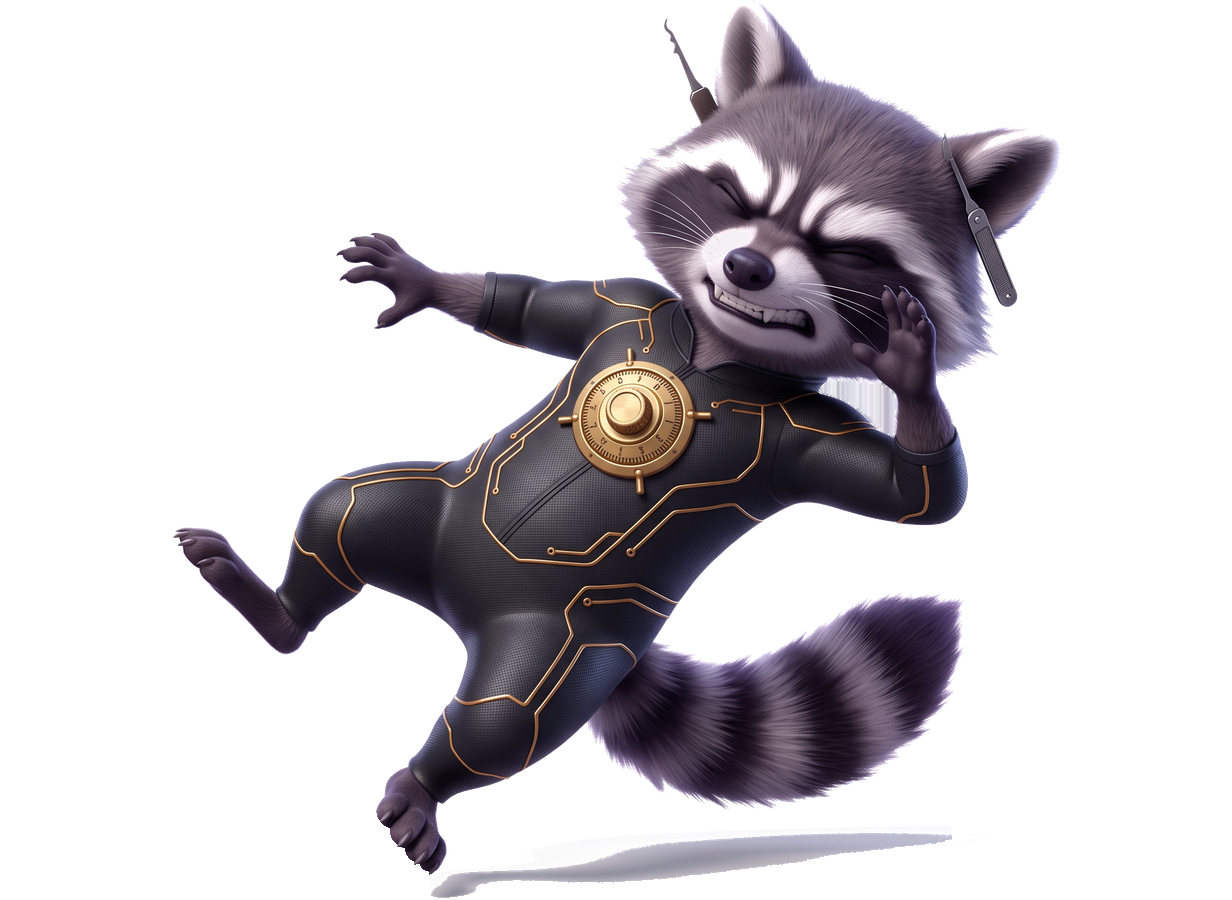
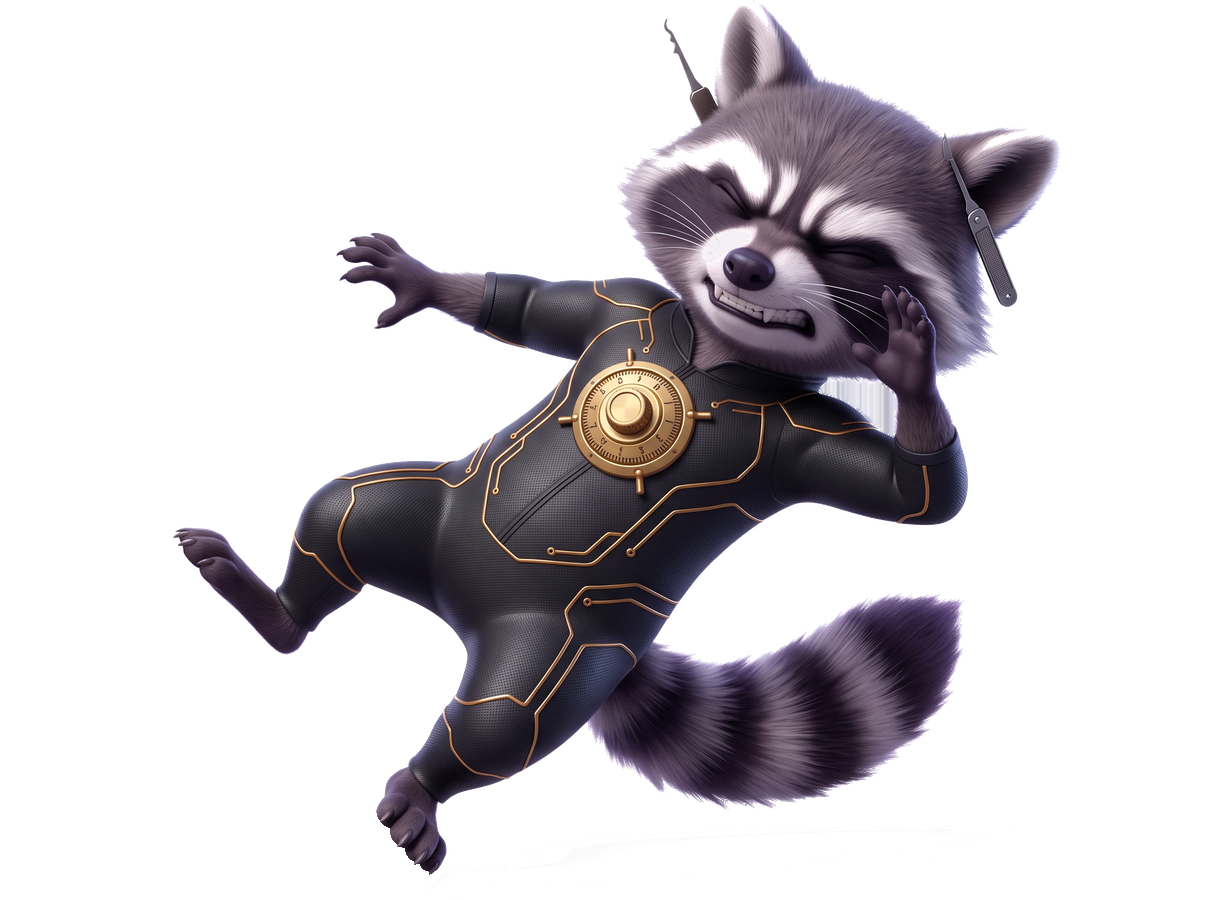
fix(w1): clean the sprite defects, and show the week's raccoon when you lose
Three faults the owner found in week 1's boss, all of them invisible in
the white previews the art was signed off against, and all three of them
caused by the keying step rather than by the generation.

1. A ground shadow survives the white key. The key is a border-connected
   flood through white; a soft grey contact shadow is not white enough
   for the flood to reach through, so it stays as a pale smear and reads
   as light grey streaks under the character on the dark arena. Owner:
   "you can see the bottom of the raccoon. That should not be there."
   Measured on the attack pose, which is what the WRONG-ANSWER screen
   shows: 83.1% of the pixels in the bottom band were pale and
   desaturated. After: 1.6%.

   strip-sprite-ground-shadow.mjs finds it structurally rather than by
   threshold. A detached smear is simply not the largest connected
   component, so it goes if it is pale and colourless; a detached prop
   that belongs to the art has colour and survives. For a shadow that
   TOUCHES the feet, --attached uses texture instead: fur has strands,
   a rendered shadow is flat, and on this sprite pale pixels split at
   local std-dev p25 = 5.1 against p90 = 42.2 for the tail.

2. The key eats the character's own white. Owner: "he's got some defect
   on his face." White brow fur and muzzle are the same colour as the
   background, so the key punched 536 pixels out of them and feathered
   another 547 to part-transparency - speckles on a dark ground.
[…]

Changed region(s): [[0.3393, 0.9022, 0.7711, 1.0]]

diff --git a/app/components/game/QuizBoss.tsx b/app/components/game/QuizBoss.tsx
@@ -1044,7 +1044,17 @@ export default function QuizBoss({ quiz, onEnd, onQuestionAnswered }: QuizBossPr
             <motion.div key="failed" initial={reduce ? false : { opacity: 0, y: 18 }} animate={{ opacity: 1, y: 0 }} style={{ margin: "auto", display: "flex", flexDirection: "column", alignItems: "center", textAlign: "center", maxWidth: 540, maxHeight: "100%", overflowY: "auto", zIndex: 15 }}>
               <div style={{ position: "relative", marginBottom: 2, display: "flex", justifyContent: "center" }}>
                 <div aria-hidden style={{ position: "absolute", left: "50%", top: "6%", transform: "translateX(-50%)", width: 230, height: 230, background: `radial-gradient(circle, ${accent}33, transparent 60%)`, filter: "blur(4px)", pointerEvents: "none" }} />
-                <motion.img src={RACCOON.taunt} alt={quiz.villain.name} initial={reduce ? false : { scale: 0.85, opacity: 0 }} animate={reduce ? { scale: 1, opacity: 1 } : { scale: 1, opacity: 1, y: [0, -7, 0] }} transition={reduce ? { duration: 0.3 } : { duration: 2.6, repeat: Infinity, ease: "easeInOut" }} style={{ position: "relative", height: 128, filter: `drop-shadow(0 0 16px rgba(5,10,30,0.45)) drop-shadow(0 0 18px ${accent}66)`, willChange: "transform" }} />
+                {/* Week-costumed, like every other raccoon in this component.
+                 *
+                 * This one said RACCOON.taunt - the SHARED sprite - so the
+                 * lose screen showed a generic raccoon while the win screen
+                 * two hundred lines down showed the week's costumed one.
+                 * Owner, 2026-10-16, on the "SO CLOSE!" card: "I'm not sure
+                 * that's an appropriate image to use for that", and on the
+                 * win card: "if we are changing the losing picture then we
+                 * also need to change the winning one, create a theme for
+                 * them both". They were never meant to differ. All 20 weeks. */}
+                <motion.img src={weekCharacterSrc(week, "raccoon", "taunt")} onError={fallbackToShared("raccoon", "taunt")} alt={quiz.villain.name} initial={reduce ? false : { scale: 0.85, opacity: 0 }} animate={reduce ? { scale: 1, opacity: 1 } : { scale: 1, opacity: 1, y: [0, -7, 0] }} transition={reduce ? { duration: 0.3 } : { duration: 2.6, repeat: Infinity, ease: "easeInOut" }} style={{ position: "relative", height: 128, filter: `drop-shadow(0 0 16px rgba(5,10,30,0.45)) drop-shadow(0 0 18px ${accent}66)`, willChange: "transform" }} />
               </div>
               <motion.div initial={reduce ? false : { scale: 1.6, opacity: 0 }} animate={{ scale: 1, opacity: 1 }} transition={{ type: "spring", stiffness: 200, damping: 16 }} style={{ margin: "4px 0 0", fontSize: "clamp(30px, 5.2vw, 46px)", fontWeight: 900, lineHeight: 1, textTransform: "uppercase", background: `linear-gradient(180deg, #fffbe9 0%, ${accent} 60%, ${accent}88 100%)`, WebkitBackgroundClip: "text", backgroundClip: "text", WebkitTextFillColor: "transparent", filter: `drop-shadow(0 0 18px ${accent}66)` }}>
                 So Close!
